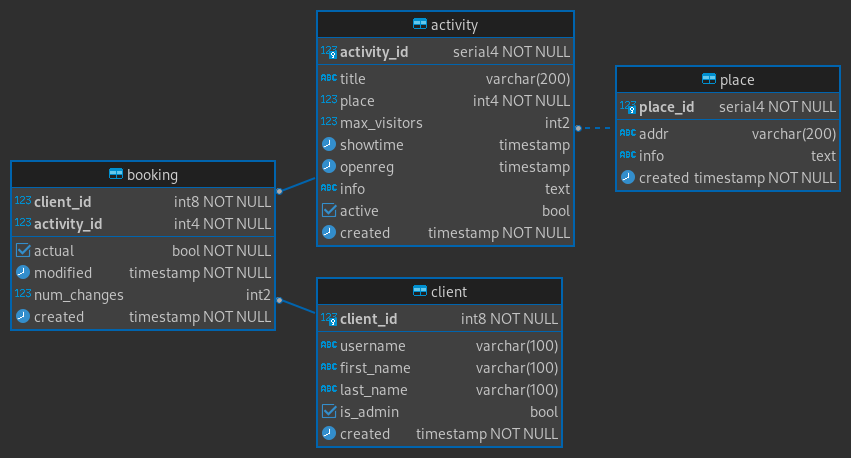
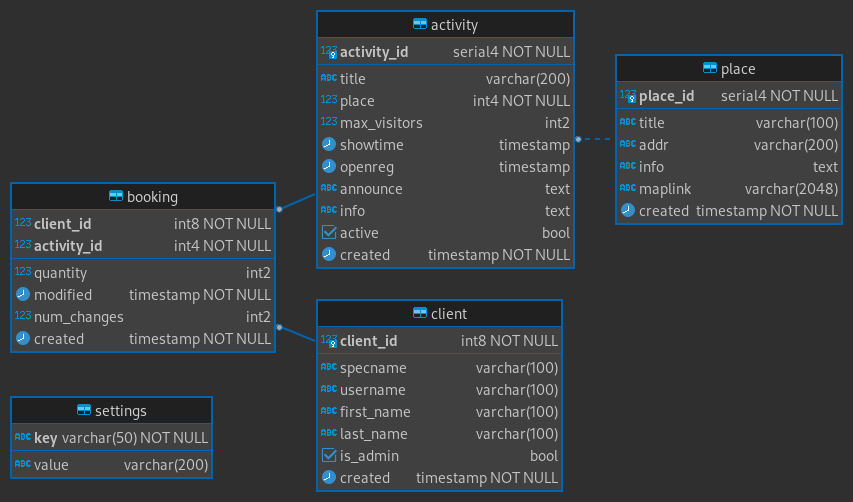
Predefined parameters moved to SQL table
On-start message fix
Fix showmap if maplink is null
ERD updated

Changed region(s): [[0.0, 0.0, 1.0, 0.9782], [0.0, 0.7642, 0.275, 0.9782]]

diff --git a/menu.py b/menu.py
@@ -4,7 +4,6 @@ from telegram import InlineKeyboardMarkup, InlineKeyboardButton, ReplyKeyboardMa
 from states import ConversationState, CallbackData, ErrorState, CallbackState, HistoryState
 from functools import wraps
 from inspect import Parameter, signature
-from predefined import MAXBOOK, BOT_ADMIN_USERNAME, RELATED_CHANNEL
 
 
 def build_reply(schema: List[List], **kwargs):
@@ -18,7 +17,13 @@ def build_inline(schema: List[Dict], **kwargs):
 
 
 def collect_card(*parts, first_bold=True):
-    prepared = [p[1] % p[0] if isinstance(p, (tuple, list)) else p for p in parts if p]
+    prepared = []
+    for p in parts:
+        if isinstance(p, (tuple, list)):
+            if p[0]:
+                prepared.append(p[1] % p[0])
+        elif p:
+            prepared.append(p)
     if prepared and first_bold:
         prepared[0] = f'*{prepared[0]}*'
     return '\n'.join(prepared)
@@ -99,7 +104,7 @@ class MenuHandler:
         booked = [ev for ev in events if ev['is_booked']]
         # build zero-events keyboard
         kbd = build_inline([
-            {self.text['BUTTON', 'TO_RELATED_CHANNEL']: {'url': RELATED_CHANNEL}},      # NOTE is it possible to handle this button?
+            {self.text['BUTTON', 'TO_RELATED_CHANNEL']: {'url': connector.settings['RELATED_CHANNEL']}},      # NOTE is it possible to handle this button?
             {self.text['BUTTON', 'TO_MAIN_MENU']: CallbackData.MAIN}
         ]) if not events else build_inline([
             {self.text['BUTTON', 'TO_ANNOUNCE']: CallbackData.ANNOUNCE},
@@ -245,16 +250,13 @@ class MenuHandler:
         print('LEFT PLACES:', ev['left_places'])
 
         # prepare keyboard
-        # one_ticket_state = bool(ev['left_places']) + bool(ev['left_places'] + ev['quantity'] > 1)
+        MAXBOOK = int(connector.settings['MAXBOOK'])
         one_ticket_state = 2 * bool(ev['left_places'] + ev['quantity'] > 1) + (ev['left_places'] == 1 and not ev['quantity'])
         available_range = range(1, min(MAXBOOK + 1, ev['left_places'] + ev['quantity']) + 1)
         kbd = build_inline([
             {} if not one_ticket_state else      # booked 1 place and no places left -> don't show book choises
             {self.text['BUTTON', 'BOOK_QUANTITY']: f'{CallbackData.BOOK_CONFIRM}:1'} if one_ticket_state == 1 else
             {n if n <= MAXBOOK else f"{n} {self.text['BUTTON', 'BOOK_QUANTITY', 1]}": f'{CallbackData.BOOK_CONFIRM}:{n}' for n in available_range if (n != ev['quantity']) or (n > MAXBOOK)},
-
-            # TODO убирать кнопку с текущим кол-вом мест, если оно < MAXBOOK
-
             {self.text['BUTTON', 'BOOK_QUANTITY', 2]: f'{CallbackData.BOOK_CONFIRM}:0'} if ev['quantity'] else {},
             {self.text['BUTTON', 'BACK']: f'{history.prev.button}:{CallbackData.BACK}'},
             # {self.text['BUTTON', 'MORE']: f'{CallbackData.MORE}:{ev["activity_id"]}'},      # NOTE backup
@@ -273,6 +275,7 @@ class MenuHandler:
         ev = connector.get_events(evfilter, uid=uid, eid=history.prev.value)
         if not ev:
             return self.direct_switch(query, context, target=CallbackData.ERROR, errstate=ErrorState.UNAVAILABLE)
+        MAXBOOK = int(connector.settings['MAXBOOK'])
         # prepare text
         state = (int(history.current.value) > 0) * (1 + (int(history.current.value) > 1) + (int(history.current.value) > MAXBOOK))
         parameters = (
@@ -294,7 +297,7 @@ class MenuHandler:
         # prepare keyboard
         kbd = build_inline([
             {
-                self.text['BUTTON', 'CONFIRM', 1]: CallbackData.BOOK_ACCEPT if int(history.current.value) < MAXBOOK + 1 else {'url': f'https://t.me/{BOT_ADMIN_USERNAME}'},     # NOTE is it possible to handle this button?
+                self.text['BUTTON', 'CONFIRM', 1]: CallbackData.BOOK_ACCEPT if int(history.current.value) < MAXBOOK + 1 else {'url': f'https://t.me/{connector.settings["BOT_ADMIN_USERNAME"]}'},     # NOTE is it possible to handle this button?
                 self.text['BUTTON', 'CONFIRM', 0]: f'{history.prev.button}:{CallbackData.BACK}'
             },
             {self.text['BUTTON', 'TO_MAIN_MENU']: CallbackData.MAIN}
@@ -333,8 +336,6 @@ class MenuHandler:
         ])
         # push message
         context.user_data['last_messages'] = [query.message.edit_text(TEXT, reply_markup=kbd, parse_mode=ParseMode.MARKDOWN)]
-        # TODO showing result
-        # return self.direct_switch(query, context, target=CallbackData.MAIN)
         return ConversationState.MENU
 
     def __delete_messages(self, context):

diff --git a/bot_connector.py b/bot_connector.py
@@ -6,7 +6,6 @@ from functools import wraps
 from menu import CallbackData
 from string import punctuation
 from datetime import datetime
-from predefined import ACTUAL_INTERVAL, SERVICE_INTERVAL
 
 
 class ShowEvent(dict):
@@ -44,6 +43,7 @@ class BotConnector():
         self.port = port
         self.__conn = None
         self.__cursor = None
+        self.settings = self.load_settings()
 
     def manage_connection(method):
         """ Connection manager for methods """
@@ -90,13 +90,13 @@ class BotConnector():
         if mode == CallbackData.SERVICE:
             fields = ', r.visitors'
             condition = 'a.active AND (NOW() < a.showtime + INTERVAL %s)'
-            parameters = (kwargs.get('uid'), SERVICE_INTERVAL, )
+            parameters = (kwargs.get('uid'), self.settings['SERVICE_INTERVAL'], )
 
         elif mode in (CallbackData.ANNOUNCE, CallbackData.MYBOOKING):
             fields = ''', COALESCE(%s = ANY(r.visitors), FALSE) is_booked '''
                     # TODO также проверять очередь бронирования
             condition = '''a.active AND (a.openreg <= NOW()) AND (NOW() < a.showtime + INTERVAL %s)'''
-            parameters = (kwargs.get('uid'), kwargs.get('uid'), ACTUAL_INTERVAL, )
+            parameters = (kwargs.get('uid'), kwargs.get('uid'), self.settings['ACTUAL_INTERVAL'], )
 
         # select event
         if (eid := kwargs.get('eid', None)) is not None:
@@ -162,3 +162,8 @@ class BotConnector():
             WHERE (b.activity_id = %s) AND (b.quantity > 0)'''
         self.__cursor.execute(BASIC_QUERY, (activity_id, ))
         return [dict(item) for item in self.__cursor.fetchall()]
+
+    @manage_connection
+    def load_settings(self):
+        self.__cursor.execute(f'SELECT * FROM {self.schema}.settings')
+        return dict(self.__cursor.fetchall())

diff --git a/bot.py b/bot.py
@@ -56,7 +56,7 @@ def start(update, context):
     context.user_data['connector'] = connector
     # request user data
     if not (specname := connector.get_user_field(user['id'], field='specname')):
-        context.user_data['last_message'] = update.message.reply_text(text['MESSAGE', 'FIRST_MET'], reply_markup=None, parse_mode=ParseMode.MARKDOWN)   # TODO Hide keyboard ?
+        context.user_data['last_messages'] = [update.message.reply_text(text['MESSAGE', 'FIRST_MET'], reply_markup=None, parse_mode=ParseMode.MARKDOWN)]   # TODO Hide keyboard ?
         return ConversationState.FIRST_MET
 
     context.user_data['specname'] = specname

diff --git a/readme.md b/readme.md
@@ -25,6 +25,12 @@ PSQL_HANDLER_PASSWORD=...
 
 PSQL_USER=...
 PSQL_PASSWORD=...
+
+SERVICE_INTERVAL=7 day
+ACTUAL_INTERVAL=1 hour
+MAXBOOK=2
+BOT_ADMIN_USERNAME=...
+RELATED_CHANNEL=...
 ```
 
 Then, start up with docker-compose:
